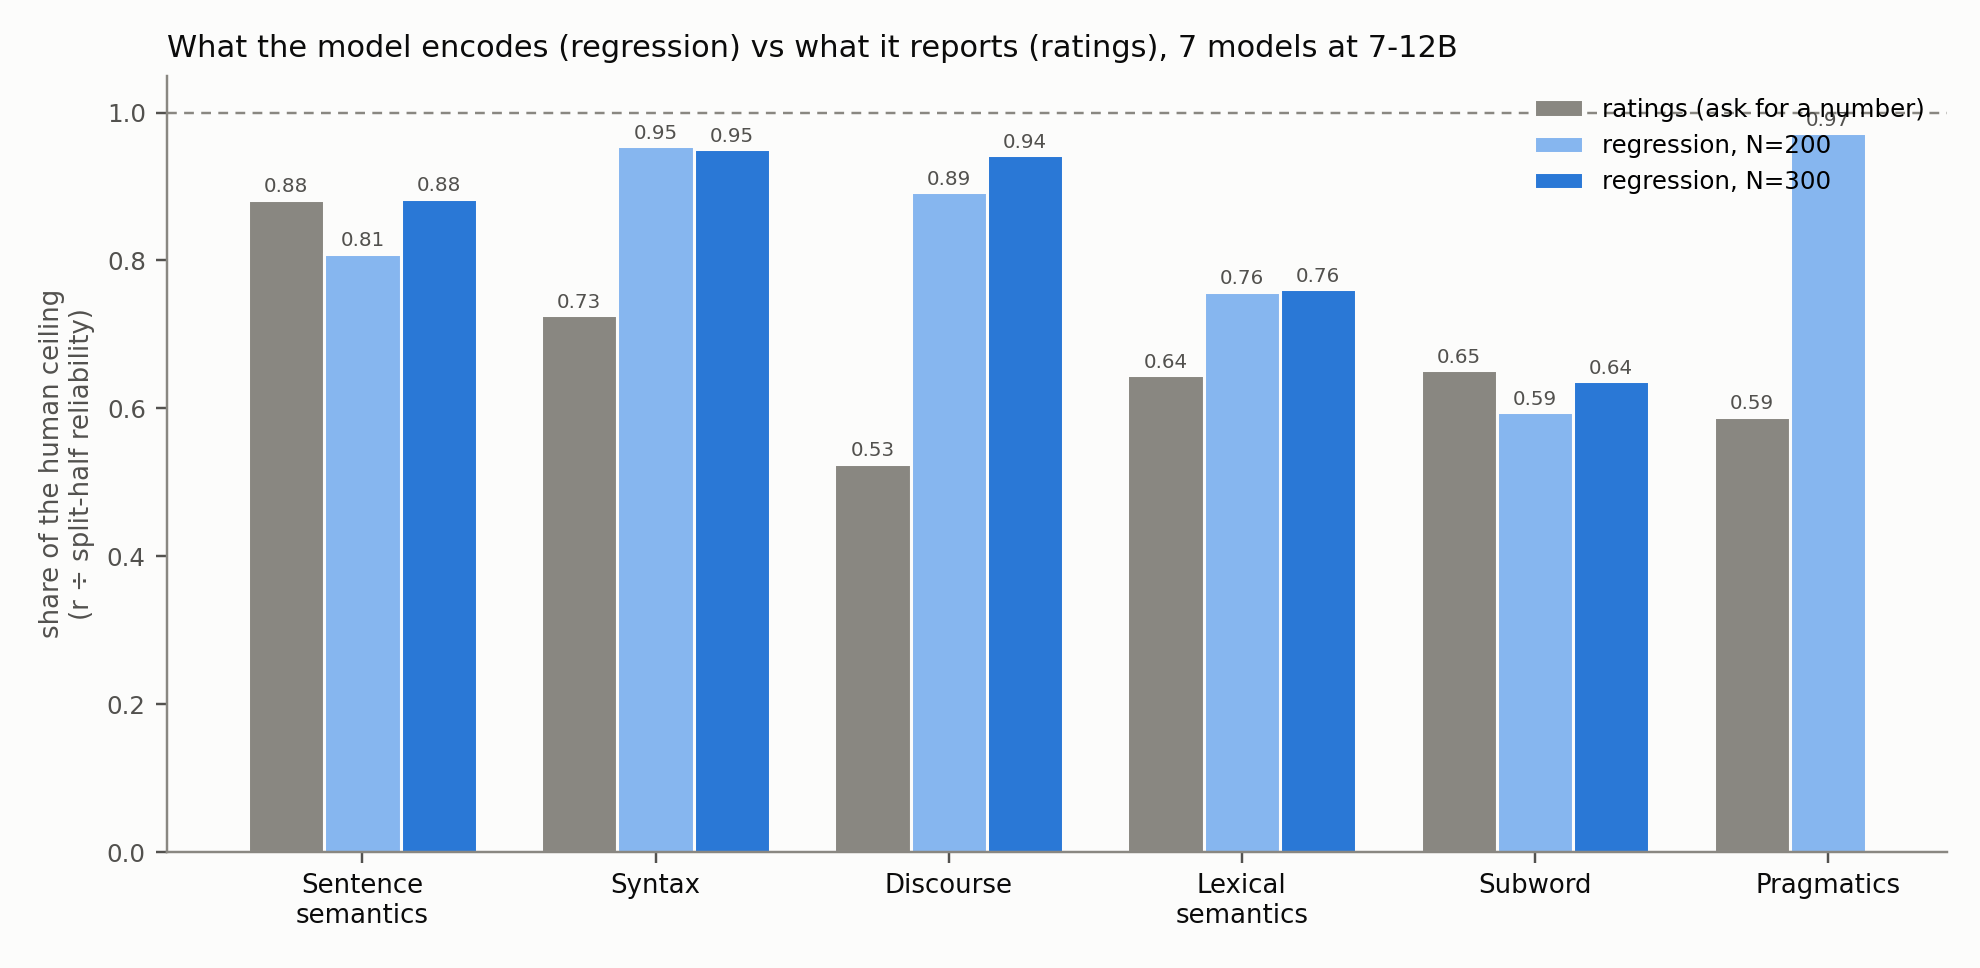
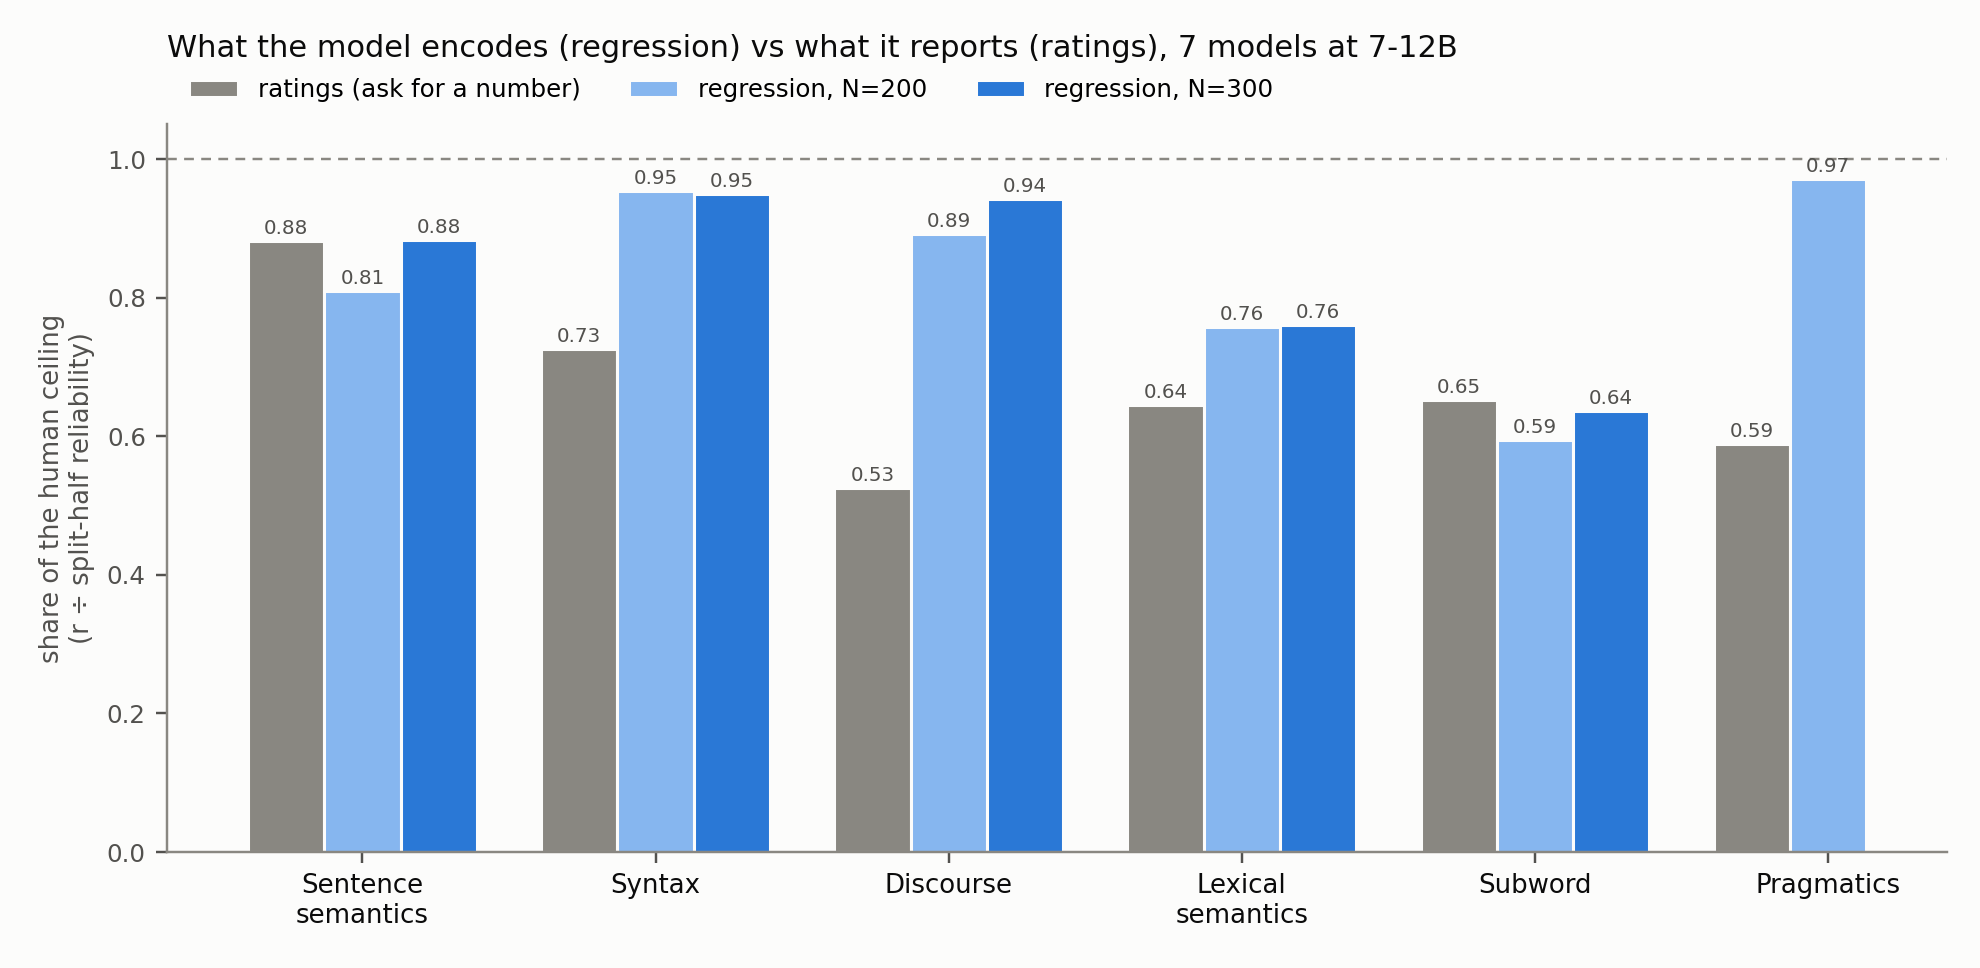
regress figure: legend above the bars

diff --git a/pipeline/regress_summary.py b/pipeline/regress_summary.py
@@ -134,8 +134,8 @@ def main():
     ax.set_xticks(x); ax.set_xticklabels([LAB[lv].replace(" ", "\n") for lv in lvs], fontsize=8.5, color=INK)
     ax.set_ylim(0, 1.05); ax.axhline(1, color=MUTED, lw=0.8, ls=(0, (4, 3)))
     ax.set_ylabel("share of the human ceiling\n(r ÷ split-half reliability)", fontsize=8.5, color=INK2)
-    ax.legend(frameon=False, fontsize=8, loc="upper right")
-    ax.set_title("What the model encodes (regression) vs what it reports (ratings), %d models at 7-12B" % len(models), loc="left", fontsize=10, color=INK)
+    ax.legend(frameon=False, fontsize=8, loc="lower left", ncol=3, bbox_to_anchor=(0, 1.0))
+    ax.set_title("What the model encodes (regression) vs what it reports (ratings), %d models at 7-12B" % len(models), loc="left", fontsize=10, color=INK, pad=22)
     fig.tight_layout(); fig.savefig("analysis/regress/fig_regress_vs_ratings.png", dpi=220); plt.close(fig)
 
     # fig 2: scatter
